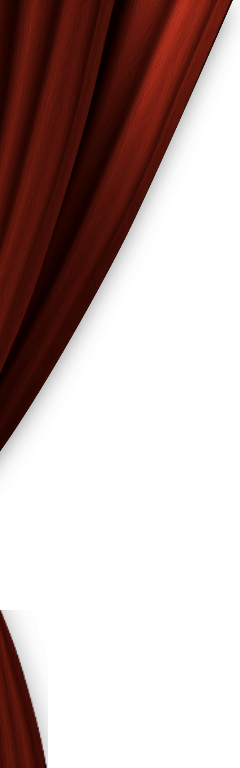
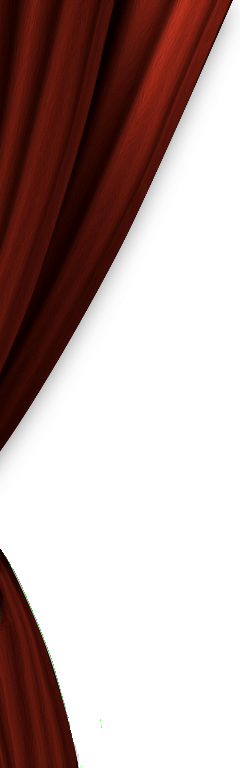
Rework layout & color on presentation

Changed region(s): [[0.0, 0.7188, 0.35, 1.0]]

diff --git a/index.html b/index.html
@@ -44,21 +44,21 @@
         <main>
             <div class="main_div" id="presentation"></div>
 
-            <!-- <div class="frame_separator">
+            <div class="frame_separator">
                 <img class="left_corner" src="img/left_part.png" />
                 <div class="middle_corner"></div>
                 <img class="right_corner" src="img/right_part.png" />
-            </div> -->
+            </div>
 
             <!-- <div class="frame_separator_2"></div> -->
 
             <div class="main_div" id="explanations"></div>
 
-            <!-- <div class="frame_separator" style="transform: rotate(180deg)">
+            <div class="frame_separator" style="transform: rotate(180deg)">
                 <img class="left_corner" src="img/left_part.png" />
                 <div class="middle_corner"></div>
                 <img class="right_corner" src="img/right_part.png" />
-            </div> -->
+            </div>
 
             <div class="main_div" id="team"></div>
         </main>

diff --git a/css/explanations.css b/css/explanations.css
@@ -84,6 +84,7 @@
   padding-top: 128px;
   padding-bottom: 64px;
   width: 1024px;
+  align-items: center;
 }
 @media screen and (max-width: 880px) {
   #explanations #instructions_and_mockup_phone {
@@ -121,7 +122,6 @@
   display: flex;
   flex-direction: column;
   width: 512px;
-  padding-bottom: 32px;
 }
 @media screen and (max-width: 880px) {
   #explanations #instructions_and_mockup_phone #instructions {

diff --git a/01_presentation.html b/01_presentation.html
@@ -11,7 +11,7 @@
             <h3>Devinez et découvrez en réalité augmentée</h3>
             <div class="google_play">
                 <a href="www.google.fr">
-                    <img class="" src="img/google-play-badge.png">
+                    <img class="" src="img/google-play-badge.png" />
                 </a>
             </div>
         </div>

diff --git a/css/general.css b/css/general.css
@@ -29,7 +29,7 @@ body h2 {
   color: #141414;
 }
 body a {
-  color: #662e2d;
+  color: rgba(33,49,134,0.8);
   font-style: bold;
   text-decoration: none;
 }
